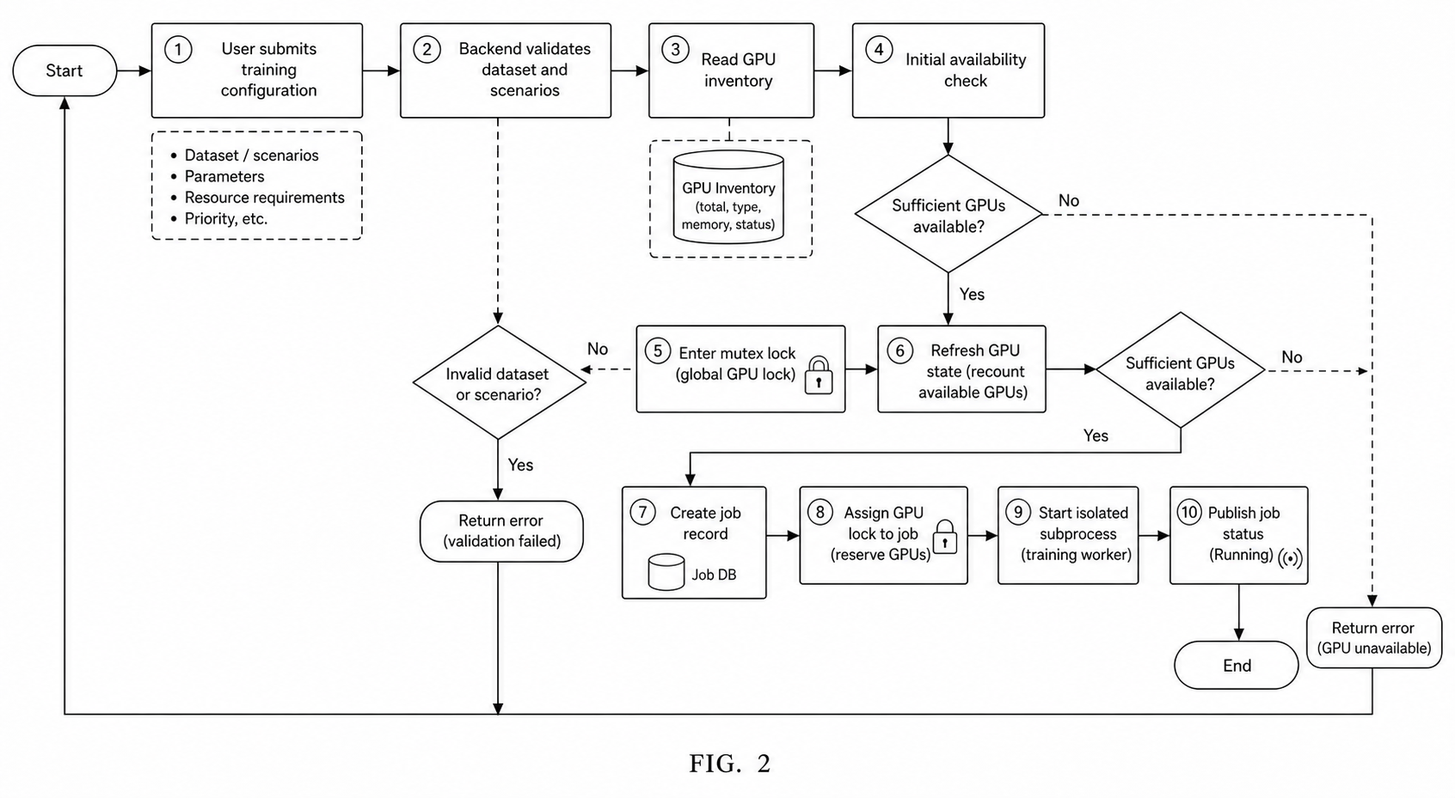
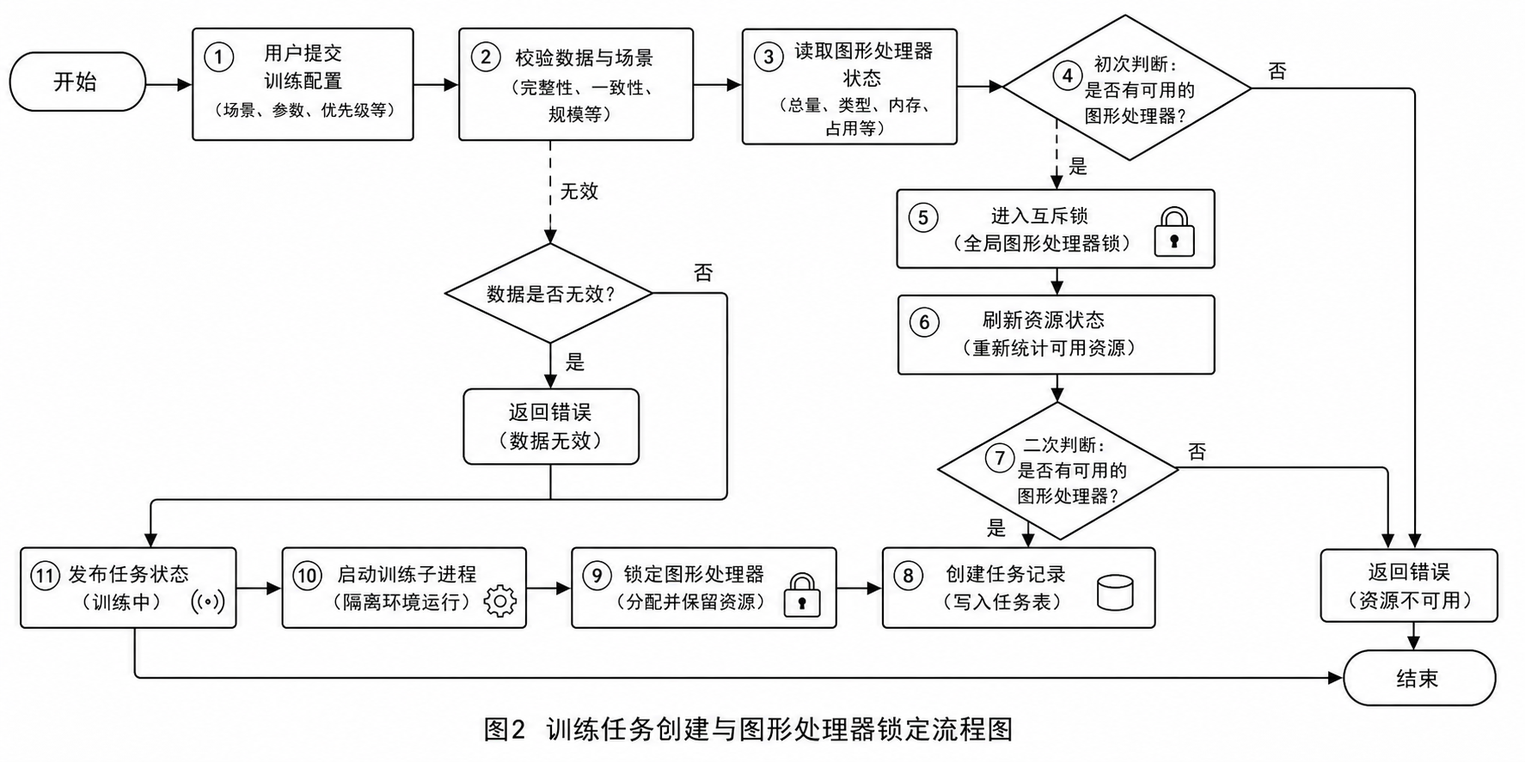
docs: localize patent drafts and figures

diff --git a/docs/patents/AUTO_TRAINING_OUTLINE.md b/docs/patents/AUTO_TRAINING_OUTLINE.md
@@ -10,128 +10,128 @@
 
 可选名称：
 
-- 一种面向 Token Router 的数据感知型自动训练平台及方法。
-- 一种结合 GPU 锁定、缓存构建和断点恢复的科学语言路由模型训练系统。
+- 一种面向令牌路由器的数据感知型自动训练平台及方法。
+- 一种结合图形处理器锁定、缓存构建和断点恢复的科学语言路由模型训练系统。
 
 ## 2. 技术领域
 
-本发明涉及机器学习训练平台、科学仿真数据处理、GPU 资源调度、模型训练过程管理、检查点管理和前后端协同监控，尤其涉及针对科学仿真语言路由器的单卡自动训练与可恢复管理方法及系统。
+本发明涉及机器学习训练平台、科学仿真数据处理、图形处理器资源调度、模型训练过程管理、检查点管理和前后端协同监控，尤其涉及针对科学仿真语言路由器的单卡自动训练与可恢复管理方法及系统。
 
 ## 3. 背景问题
 
-Token Router 训练依赖由科学语言样本构建出的路由数据，同时还依赖嵌入模型、tokenizer、场景选择、训练/测试切分、GPU 状态和检查点文件。传统手工训练方式通常存在以下问题：
+令牌路由器训练依赖由科学语言样本构建出的路由数据，同时还依赖嵌入模型、分词器、场景选择、训练/测试切分、图形处理器状态和检查点文件。传统手工训练方式通常存在以下问题：
 
 - 训练数据、场景选择、嵌入模型和缓存目录不一致时容易产生不可复现实验。
-- 多个训练任务可能误用同一 GPU，导致显存冲突或训练中断。
+- 多个训练任务可能误用同一图形处理器，导致显存冲突或训练中断。
 - 长时间训练中断后，平台难以判断任务是运行、停止、完成、异常终止还是等待保存。
 - 检查点数量增长快，占用磁盘空间，且恢复训练时缺少兼容性校验。
-- 前端日志、曲线、GPU 状态和任务状态若由不同来源刷新，容易出现状态漂移。
+- 前端日志、曲线、图形处理器状态和任务状态若由不同来源刷新，容易出现状态漂移。
 
 ## 4. 核心技术方案
 
-该方案将 Token Router 训练封装为一个数据感知、资源感知和状态可恢复的自动训练闭环：
+该方案将令牌路由器训练封装为一个数据感知、资源感知和状态可恢复的自动训练闭环：
 
-1. 训练数据发现：从路由数据 manifest、便携式 Parquet 分区或兼容 JSONL 文件中聚合可训练仿真器、场景、样本数和文件大小。
-2. 训练参数配置：前端选择仿真器、子场景、GPU、批大小、测试比例、评估间隔、学习率、权重衰减、保留权重数量和恢复训练来源。
-3. GPU 可用性判定：后端读取 `nvidia-smi` 的显存和利用率，并结合平台内活跃任务对 GPU 进行逻辑锁定。
-4. 预处理缓存构建：根据仿真器、场景集合、测试比例、输入表示、嵌入模型和 tokenizer 生成确定性缓存名，构建或复用训练缓存。
-5. 训练进程启动：后端创建独立训练子进程，设置 `CUDA_VISIBLE_DEVICES`、停止令牌、运行目录、日志路径和训练命令。
-6. 过程监控：平台从进程状态、训练日志、指标 JSONL、测试指标、检查点目录和停止状态文件综合推断任务状态。
-7. 权重管理：训练过程中按 epoch 保存检查点，按用户配置保留最近 N 个 epoch，同时维护 latest/final 权重和兼容性元数据。
-8. 安全停止与恢复：停止请求写入带 token 的控制文件并发送信号，训练脚本在安全点保存检查点；恢复训练前校验 checkpoint 与当前训练配置兼容。
+1. 训练数据发现：从路由数据清单文件、便携式列式分区文件或兼容行式文本文件中聚合可训练仿真器、场景、样本数和文件大小。
+2. 训练参数配置：前端选择仿真器、子场景、图形处理器、批大小、测试比例、评估间隔、学习率、权重衰减、保留权重数量和恢复训练来源。
+3. 图形处理器可用性判定：后端读取显卡状态查询命令输出的显存和利用率，并结合平台内活跃任务对图形处理器进行逻辑锁定。
+4. 预处理缓存构建：根据仿真器、场景集合、测试比例、输入表示、嵌入模型和分词器生成确定性缓存名，构建或复用训练缓存。
+5. 训练进程启动：后端创建独立训练子进程，设置图形处理器可见性环境变量、停止令牌、运行目录、日志路径和训练命令。
+6. 过程监控：平台从进程状态、训练日志、行式指标文件、测试指标、检查点目录和停止状态文件综合推断任务状态。
+7. 权重管理：训练过程中按训练轮次保存检查点，按用户配置保留最近若干个训练轮次，同时维护 最新权重、最终权重以及兼容性元数据。
+8. 安全停止与恢复：停止请求写入带令牌的控制文件并发送信号，训练脚本在安全点保存检查点；恢复训练前校验检查点与当前训练配置兼容。
 
 ## 5. 主要模块
 
 ### 5.1 数据集聚合模块
 
-- 扫描 Token Router 数据目录、manifest 和便携式分区。
+- 扫描令牌路由器数据目录、清单文件和便携式列式分区文件。
 - 汇总仿真器、场景、样本数、文件大小、输入表示和嵌入元数据。
 - 向前端提供可选择的数据集列表，并拒绝不存在或不完整的场景组合。
 
-### 5.2 GPU 资源判定与锁定模块
+### 5.2 图形处理器资源判定与锁定模块
 
-- 读取 GPU 型号、显存占用、利用率和进程占用情况。
-- 基于显存阈值、利用率阈值和平台活跃任务判断 GPU 是否可用。
-- 训练任务创建时在锁内二次校验 GPU 状态，避免并发提交抢占同一 GPU。
+- 读取图形处理器型号、显存占用、利用率和进程占用情况。
+- 基于显存阈值、利用率阈值和平台活跃任务判断图形处理器是否可用。
+- 训练任务创建时在锁内二次校验图形处理器状态，避免并发提交抢占同一图形处理器。
 
 ### 5.3 训练缓存与输入表示模块
 
-- 解析路由数据中的聊天模板、嵌入模型、tokenizer 和输入表示。
-- 检查本地 embedding backbone 是否可解析。
-- 根据数据选择和模型元数据生成确定性 prepared cache 名称。
-- 对路由样本进行切分、嵌入或 token 缓存，并保存训练/测试摘要。
+- 解析路由数据中的聊天模板、嵌入模型、分词器和输入表示。
+- 检查本地 嵌入骨干模型 是否可解析。
+- 根据数据选择和模型元数据生成确定性预处理缓存名称。
+- 对路由样本进行切分、嵌入或词元缓存，并保存训练/测试摘要。
 
 ### 5.4 训练执行模块
 
-- 以独立进程运行 Token Router 训练脚本。
-- 设置随机种子、设备、AMP、DataLoader、长度分桶采样和评估间隔。
-- 输出训练日志、训练指标、测试指标、分场景指标和 checkpoint 文件。
+- 以独立进程运行令牌路由器训练脚本。
+- 设置随机种子、设备、自动混合精度、数据加载器、长度分桶采样和评估间隔。
+- 输出训练日志、训练指标、测试指标、分场景指标和检查点文件。
 
 ### 5.5 状态恢复与监控模块
 
 - 从持久化任务表恢复历史任务。
-- 结合 PID 是否存活、日志尾部、训练指标文件、停止状态文件和最终权重判断任务状态。
+- 结合 进程标识 是否存活、日志尾部、训练指标文件、停止状态文件和最终权重判断任务状态。
 - 为前端提供任务列表、任务详情、训练曲线、日志和最近检查点。
 
 ### 5.6 检查点与恢复训练模块
 
-- 每个 epoch 保存 `router_epoch_*.pt`，并根据 `keep_last_epochs` 删除更早 epoch 权重。
-- 维护 `router_latest.pt`、`router_final.pt` 和检查点元数据。
-- 删除检查点前确认任务不在运行，并限制删除路径位于训练 run 目录内。
-- 恢复训练前比较仿真器、场景、输入表示、嵌入模型、tokenizer 和 prepared summary 等兼容性信息。
+- 每个训练轮次保存训练轮次权重文件，并根据保留最近训练轮次数量参数删除更早训练轮次权重。
+- 维护 最新权重文件和最终权重文件 和检查点元数据。
+- 删除检查点前确认任务不在运行，并限制删除路径位于训练 运行目录内。
+- 恢复训练前比较仿真器、场景、输入表示、嵌入模型、分词器和 预处理摘要 等兼容性信息。
 
 ### 5.7 前端训练工作台模块
 
-- 提供训练总览、GPU 状态、数据集选择、新建训练、任务管理、详情页、曲线、日志和训练文件管理。
-- 通过统一 API 周期性刷新数据集、GPU、任务、日志、曲线和检查点。
+- 提供训练总览、图形处理器状态、数据集选择、新建训练、任务管理、详情页、曲线、日志和训练文件管理。
+- 通过统一接口周期性刷新数据集、图形处理器、任务、日志、曲线和检查点。
 - 将任务状态、停止提示、权重保留策略和文件删除保护同步到界面。
 
 ## 6. 关键创新点
 
-- 将路由数据 manifest、嵌入 backbone、训练缓存、GPU 锁和训练子进程绑定为一个可校验的启动契约。
-- 使用确定性缓存命名机制，使相同数据选择和输入表示复用同一 prepared dataset，减少重复预处理。
-- 通过操作系统进程、平台持久化状态、训练日志、指标文件和 checkpoint 文件多源融合恢复任务状态。
+- 将路由数据清单文件、嵌入骨干模型、训练缓存、图形处理器锁和训练子进程绑定为一个可校验的启动契约。
+- 使用确定性缓存命名机制，使相同数据选择和输入表示复用同一预处理数据集，减少重复预处理。
+- 通过操作系统进程、平台持久化状态、训练日志、指标文件和检查点文件多源融合恢复任务状态。
 - 使用带令牌的停止控制文件实现平台授权停止，并在训练安全点保存权重，降低强制中断导致的模型损坏风险。
-- 将 checkpoint 保留数量作为训练配置，由平台自动清理旧权重，兼顾恢复能力和磁盘占用。
+- 将检查点保留数量作为训练配置，由平台自动清理旧权重，兼顾恢复能力和磁盘占用。
 - 在恢复训练前执行配置兼容性检查，避免使用不匹配数据或嵌入模型继续训练。
 
 ## 7. 技术效果
 
 - 降低训练启动和恢复的人为配置错误，提高实验可复现性。
-- 避免多个任务误占同一 GPU，提高远程服务器资源利用的可控性。
+- 避免多个任务误占同一图形处理器，提高远程服务器资源利用的可控性。
 - 在服务重启、浏览器关闭或任务异常结束后仍能查看任务历史、日志和最终状态。
-- 自动控制 checkpoint 数量，减少磁盘压力。
+- 自动控制检查点数量，减少磁盘压力。
 - 让前端展示的训练状态、进度、日志、曲线和权重文件与后端运行状态保持一致。
 
 ## 8. 权利要求布局建议
 
-1. 独立方法权利要求：覆盖数据集发现、GPU 判定、缓存构建、训练启动、状态监控、检查点管理和安全停止恢复的完整训练流程。
-2. 独立系统权利要求：覆盖数据集模块、GPU 模块、缓存模块、训练执行模块、状态恢复模块、检查点模块和前端监控模块。
+1. 独立方法权利要求：覆盖数据集发现、图形处理器判定、缓存构建、训练启动、状态监控、检查点管理和安全停止恢复的完整训练流程。
+2. 独立系统权利要求：覆盖数据集模块、图形处理器模块、缓存模块、训练执行模块、状态恢复模块、检查点模块和前端监控模块。
 3. 设备权利要求：覆盖执行上述训练调度方法的服务器或计算设备。
 4. 存储介质权利要求：覆盖保存程序指令后执行上述方法的非暂态计算机可读存储介质。
-5. 从属权利要求：分别保护 GPU 二次校验、prepared cache 哈希、checkpoint 兼容性校验、状态多源推断、令牌化停止文件和最近 N 个 epoch 权重保留策略。
+5. 从属权利要求：分别保护图形处理器二次校验、预处理缓存散列、检查点兼容性校验、状态多源推断、令牌化停止文件和最近若干个训练轮次权重保留策略。
 
 ## 9. 附图建议
 
 - 图 1：自动训练平台总体架构图。
 
   ![图 1 自动训练平台总体架构图](figures/auto_training_fig1.png)
-- 图 2：训练任务创建与 GPU 锁定流程图。
+- 图 2：训练任务创建与图形处理器锁定流程图。
 
-  ![图 2 训练任务创建与 GPU 锁定流程图](figures/auto_training_fig2.png)
-- 图 3：路由数据到 prepared cache 的构建流程图。
+  ![图 2 训练任务创建与图形处理器锁定流程图](figures/auto_training_fig2.png)
+- 图 3：路由数据到预处理缓存的构建流程图。
 
-  ![图 3 路由数据到 prepared cache 的构建流程图](figures/auto_training_fig3.png)
+  ![图 3 路由数据到预处理缓存的构建流程图](figures/auto_training_fig3.png)
 - 图 4：训练状态多源推断流程图。
 
   ![图 4 训练状态多源推断流程图](figures/auto_training_fig4.png)
-- 图 5：checkpoint 保存、清理、删除和恢复训练关系图。
+- 图 5：检查点保存、清理、删除和恢复训练关系图。
 
-  ![图 5 checkpoint 保存、清理、删除和恢复训练关系图](figures/auto_training_fig5.png)
+  ![图 5 检查点保存、清理、删除和恢复训练关系图](figures/auto_training_fig5.png)
 
 ## 10. 项目实现映射
 
-- 训练 API：`piern/training/api/routers/training.py`
+- 训练接口：`piern/training/api/routers/training.py`
 - 训练任务管理：`piern/training/services/training_manager.py`
 - 运行时状态：`piern/training/services/training_runtime.py`、`piern/training/services/process_control.py`
 - 权重管理：`piern/training/services/checkpoint_store.py`

diff --git a/docs/patents/DATA_SYNTHESIS_PATENT_DRAFT.md b/docs/patents/DATA_SYNTHESIS_PATENT_DRAFT.md
@@ -44,7 +44,7 @@ S5，根据所述语言样本构造路由训练数据，所述路由训练数据
 
 ### 权利要求 6
 
-根据权利要求 1 所述的方法，其特征在于，步骤 S4 包括：根据随机种子从语言模板记录集合和科学仿真数据样本集合中选择组合关系，按场景并行填充语言样本，并以批量方式写入便携式分区文件或兼容行式文本文件。
+根据权利要求 1 所述的方法，其特征在于，步骤 S4 包括：根据随机种子从语言模板记录集合和科学仿真数据样本集合中选择组合关系，按场景并行填充语言样本，并以批量方式写入便携式列式分区文件或兼容行式文本文件。
 
 ### 权利要求 7
 
@@ -90,7 +90,7 @@ S5，根据所述语言样本构造路由训练数据，所述路由训练数据
 
 ### 背景技术
 
-地下水模拟、电磁反演、电力潮流、暂态仿真、能源系统模拟等科学计算任务通常会产生大量结构化仿真数据。该类数据常以 HDF5、数组或表格形式保存，通常包括参数向量、多通道时序输出、场景名称、采样配置和物理含义说明。随着大语言模型和专家模型协同推理的发展，需要将上述科学仿真数据转换为自然语言问答样本、解释样本或路由训练样本，以训练能够识别任务场景和调用专家模型的路由模型。
+地下水模拟、电磁反演、电力潮流、暂态仿真、能源系统模拟等科学计算任务通常会产生大量结构化仿真数据。该类数据常以层次化科学数据文件、数组或表格形式保存，通常包括参数向量、多通道时序输出、场景名称、采样配置和物理含义说明。随着大语言模型和专家模型协同推理的发展，需要将上述科学仿真数据转换为自然语言问答样本、解释样本或路由训练样本，以训练能够识别任务场景和调用专家模型的路由模型。
 
 现有做法通常包括两类：第一类是人工编写模板后手动填充数值；第二类是直接调用大模型逐条生成自然语言样本。前者难以覆盖多场景、多语言和多表述风格，维护成本高；后者虽然能够生成丰富文本，但在百万级样本规模下会带来高昂的大模型调用成本，并且大模型直接生成数值时容易产生单位不一致、参数错配、通道错配、物理意义不一致或虚构数值等问题。
 
@@ -118,7 +118,7 @@ S5，根据所述语言样本构造路由训练数据，所述路由训练数据
 
 在一种优选实施方式中，平台以阶段化流水线组织处理过程，包括原始科学数据接入阶段、语言模板生成阶段、本地样本填充阶段和路由数据构建阶段。每个阶段由后端任务管理模块维护任务状态、进度事件、日志事件、处理速率和任务互斥关系，前端通过统一接口展示任务进度和文件状态。
 
-在一种优选实施方式中，本地样本填充阶段支持按场景并行执行，支持通过随机种子控制模板和数值样本的组合顺序，支持批量写入便携式 Parquet 分区，也支持写入兼容 JSONL 文件。平台还可生成源数据签名和 manifest，用于判断派生数据是否与原始科学数据及语言模板一致。
+在一种优选实施方式中，本地样本填充阶段支持按场景并行执行，支持通过随机种子控制模板和数值样本的组合顺序，支持批量写入便携式列式分区文件，也支持写入兼容行式文本文件。平台还可生成源数据签名和清单文件，用于判断派生数据是否与原始科学数据及语言模板一致。
 
 在一种优选实施方式中，当样本填充任务、路由数据构建任务或训练任务正在使用某一文件或目录时，平台将所述文件或目录标记为受保护状态，阻止用户在文件管理界面中删除或覆盖该文件或目录，从而避免长任务运行期间的数据损坏。
 
@@ -131,7 +131,7 @@ S5，根据所述语言样本构造路由训练数据，所述路由训练数据
 3. 通过统一数据契约和场景知识对象支持多种仿真器和多种科学场景，降低新增场景接入成本。
 4. 通过参数槽位、输出槽位和变换描述，使语言表达和原始数值之间形成可追踪映射。
 5. 自动构造路由训练正负样本和相关元数据，使合成结果可直接服务于路由模型训练。
-6. 通过源数据签名、便携式分区和派生数据策略，提高远程服务器迁移和数据重建能力。
+6. 通过源数据签名、便携式列式分区文件和派生数据策略，提高远程服务器迁移和数据重建能力。
 
 ### 附图说明
 
@@ -147,9 +147,9 @@ S5，根据所述语言样本构造路由训练数据，所述路由训练数据
 
 ![图 3 无数值语言模板与本地数值填充之间的映射关系图](figures/data_synthesis_fig3.png)
 
-图 4 为本发明实施例提供的路由训练正负样本构建示意图。
+图 4 为本发明实施例提供的路由正负样本构建示意图。
 
-![图 4 路由训练正负样本构建示意图](figures/data_synthesis_fig4.png)
+![图 4 路由正负样本构建示意图](figures/data_synthesis_fig4.png)
 
 图 5 为本发明实施例提供的任务进度、文件保护和派生数据存储关系图。
 
@@ -161,9 +161,9 @@ S5，根据所述语言样本构造路由训练数据，所述路由训练数据
 
 #### 实施例一：科学仿真数据接入与校验
 
-平台接收一个仿真器对应的多个场景数据文件。每个场景数据文件包括 `timeseries`、`params`、`param_names` 和场景属性。其中，`timeseries` 表示多样本多通道时序数组，形状可以为 `[N,C,T]`，`params` 表示参数数组，形状可以为 `[N,P]`，`param_names` 表示长度为 `P` 的参数名称集合。
+平台接收一个仿真器对应的多个场景数据文件。每个场景数据文件包括时序数组、参数数组、参数名称列表和场景属性。其中，时序数组表示多样本多通道时序输出，参数数组表示多样本参数向量集合，参数名称列表表示参数数组中各列对应的物理参数名称。
 
-平台在接入数据时执行如下校验：校验 `timeseries` 是否为三维数组；校验 `params` 是否为二维数组；校验 `timeseries` 与 `params` 的第一维样本数量是否一致；校验 `param_names` 的长度是否与 `params` 的第二维一致；校验场景名称、通道数量、时间步数量和属性字段是否存在；校验数组中是否存在 NaN 或 Inf。若校验失败，平台拒绝该场景进入后续阶段，并返回明确错误信息。
+平台在接入数据时执行如下校验：校验时序数组是否为三维数组；校验参数数组是否为二维数组；校验时序数组与参数数组的样本数量是否一致；校验参数名称列表的长度是否与参数数组的参数维度一致；校验场景名称、通道数量、时间步数量和属性字段是否存在；校验数组中是否存在非法数值。若校验失败，平台拒绝该场景进入后续阶段，并返回明确错误信息。
 
 通过该方式，不同来源的科学仿真数据在进入语言生成流程前被转换为统一的数据契约，从而为跨仿真器处理提供基础。
 
@@ -177,17 +177,17 @@ S5，根据所述语言样本构造路由训练数据，所述路由训练数据
 
 语言模板生成模块根据场景知识对象生成模板记录。模板记录中可以包括用户问题模板、助手响应模板、参数槽位、输出槽位、时间选择信息、通道选择信息和参数变换描述。
 
-例如，某一模板可以表示：“在给定 {value_0} 和 {value_1} 的条件下，观测井在第 {time_0} 个时间步的水头为 {output_0}。”其中，`{value_0}` 和 `{value_1}` 分别指向参数数组中的两个参数，`{output_0}` 指向时序数组中的某一通道和某一时间步。模板生成阶段不填入具体数值，因此同一模板可以复用于多个仿真样本。
+例如，某一模板可以表示：“在给定第一参数值和第二参数值的条件下，观测井在指定时间步的水头为指定观测值。”其中，第一参数值和第二参数值分别指向参数数组中的两个参数，指定观测值指向时序数组中的某一通道和某一时间步。模板生成阶段不填入具体数值，因此同一模板可以复用于多个仿真样本。
 
 若模板包含参数变换，则模板记录同时保存变换类型和变换参数。例如，当文本需要描述某一参数的百分比形式或缩放形式时，模板记录保存缩放系数，样本填充模块在本地执行相同变换。
 
 #### 实施例四：本地确定性样本填充
 
-样本填充模块读取模板记录和科学仿真数据。对于每一条待生成样本，模块选择一个模板记录和一个仿真样本编号。随后，模块根据模板记录中的参数槽位从 `params` 中读取参数值，并根据输出槽位从 `timeseries` 中读取观测值。
+样本填充模块读取模板记录和科学仿真数据。对于每一条待生成样本，模块选择一个模板记录和一个仿真样本编号。随后，模块根据模板记录中的参数槽位从参数数组中读取参数值，并根据输出槽位从时序数组中读取观测值。
 
 在填充过程中，模块检查时间索引是否小于时间步数量，检查通道索引是否小于通道数量，检查读取到的数值是否为有限值。若检查通过，模块将数值格式化后填入语言文本，并保存结构化字段，包括原始参数值、变换后参数值、观测值、场景名称、模板标识和源样本标识。
 
-在大规模生成时，平台可以按场景并行运行多个填充任务，每个任务分批写入输出文件。输出文件可以采用 Parquet 分区格式，以便后续快速扫描和迁移；也可以采用 JSONL 格式，以兼容已有文本处理工具。
+在大规模生成时，平台可以按场景并行运行多个填充任务，每个任务分批写入输出文件。输出文件可以采用列式分区文件格式，以便后续快速扫描和迁移；也可以采用行式文本文件格式，以兼容已有文本处理工具。
 
 #### 实施例五：路由训练数据构建
 

diff --git a/docs/patents/DATA_SYNTHESIS_OUTLINE.md b/docs/patents/DATA_SYNTHESIS_OUTLINE.md
@@ -15,11 +15,11 @@
 
 ## 2. 技术领域
 
-本发明涉及科学计算数据处理、自然语言样本构建、机器学习训练数据生成、仿真数据管理和人机交互式数据工程平台，尤其涉及将多源科学仿真张量数据转换为可用于 Token Router 训练的语言样本和路由数据的方法及系统。
+本发明涉及科学计算数据处理、自然语言样本构建、机器学习训练数据生成、仿真数据管理和人机交互式数据工程平台，尤其涉及将多源科学仿真张量数据转换为可用于令牌路由器训练的语言样本和路由数据的方法及系统。
 
 ## 3. 背景问题
 
-现有科学仿真数据通常以 HDF5、数组或表格形式保存，包含多通道时序、参数向量和场景元数据。若直接使用大模型逐条生成语言样本，通常存在以下问题：
+现有科学仿真数据通常以层次化科学数据文件、数组或表格形式保存，包含多通道时序、参数向量和场景元数据。若直接使用大模型逐条生成语言样本，通常存在以下问题：
 
 - 逐样本调用大模型成本高、速度慢，难以扩展到百万级样本。
 - 大模型直接写入数值容易产生物理不一致、单位不一致或参数映射错误。
@@ -31,23 +31,23 @@
 
 该方案将数据合成平台拆分为四个相互约束的阶段，并通过统一任务系统、文件管理和进度接口串联：
 
-1. 原始科学数据接入阶段：运行物理仿真或上传 HDF5，按统一契约校验 `timeseries`、`params`、`param_names`、属性字段、形状和有限值。
+1. 原始科学数据接入阶段：运行物理仿真或上传层次化科学数据文件，按统一契约校验 时序数组、参数数组和参数名称列表、属性字段、形状和有限值。
 2. 语言模板生成阶段：融合仿真器注册表、场景元数据、参数说明、输出通道说明和观测配置，调用大模型生成不含真实数值的模板记录。
-3. 本地样本填充阶段：根据模板中的占位符、参数槽位、输出槽位、时间索引、通道索引和变换描述，从 HDF5 数值数组中确定性填充语言样本。
-4. 路由数据构建阶段：把填充后的语言样本转换为 Token Router 所需的正负训练样本，并保存场景、语言、嵌入模型和源数据签名等元数据。
+3. 本地样本填充阶段：根据模板中的占位符、参数槽位、输出槽位、时间索引、通道索引和变换描述，从层次化科学数据文件的数值数组中确定性填充语言样本。
+4. 路由数据构建阶段：把填充后的语言样本转换为令牌路由器所需的正负训练样本，并保存场景、语言、嵌入模型和源数据签名等元数据。
 
 ## 5. 主要模块
 
 ### 5.1 数据契约与校验模块
 
-- 统一检查 HDF5 中 `timeseries [N,C,T]`、`params [N,P]`、`param_names [P]` 的一致性。
-- 校验样本数、参数数、通道数、时间步、NaN、Inf、属性字段和场景名称。
+- 统一检查 层次化科学数据文件中形状为样本数、通道数、时间步数的时序数组，参数数组和参数名称列表的一致性。
+- 校验样本数、参数数、通道数、时间步、非法数值、属性字段和场景名称。
 - 支持物理仿真生成数据和用户上传数据进入同一流程。
 
 ### 5.2 场景注册与领域知识融合模块
 
 - 读取仿真器级注册表、场景级配置和内置领域注册表。
-- 为每个场景组合 `domain_context`、`output_description`、`param_info`、`output_info` 和 `observation_config`。
+- 为每个场景组合 领域背景、输出描述、参数信息、输出信息和观测配置。
 - 将不同仿真域的参数、输出通道和观测方式映射为统一模板输入。
 
 ### 5.3 无数值语言模板模块
@@ -58,17 +58,17 @@
 
 ### 5.4 本地数值填充模块
 
-- 根据模板占位符从 `params` 和 `timeseries` 中读取真实数值。
+- 根据模板占位符从参数数组和时序数组中读取真实数值。
 - 对参数值执行乘、除、加、减等变换，并同步记录原始参数和变换后参数。
 - 按模板指定的时间点、通道和输出名称提取观测值，跳过非法索引和非有限值。
-- 支持按场景并行填充、随机种子控制、批量写入和 Parquet/JSONL 输出。
+- 支持按场景并行填充、随机种子控制、批量写入和列式分区文件或行式文本文件 输出。
 
 ### 5.5 路由样本构建模块
 
 - 对每条语言样本应用聊天模板，构造完整上下文。
-- 从 assistant 起始标记处构造正样本，表示当前上下文需要专家模型接管。
+- 从助手起始标记处构造正样本，表示当前上下文需要专家模型接管。
 - 从前缀中随机截断构造负样本，表示上下文尚不需要专家模型接管。
-- 记录场景标签、语言标签、源样本 ID、聊天模板、嵌入模型、tokenizer 和数据签名。
+- 记录场景标签、语言标签、源样本标识、聊天模板、嵌入模型、分词器和数据签名。
 
 ### 5.6 任务进度与文件保护模块
 
@@ -80,14 +80,14 @@
 
 - 将大模型生成从“逐样本生成”改为“生成可复用的无数值模板”，显著降低调用成本并提高可扩展性。
 - 通过模板槽位、时间索引、通道索引和参数变换描述，将语言表达与真实科学数值严格绑定，减少虚假数值和物理不一致。
-- 用统一数据契约和领域注册表屏蔽不同仿真器之间的输入输出差异，实现跨 MODFLOW、SimPEG、电力潮流、暂态仿真和 GCAM 等场景的统一合成。
-- 在同一流水线中自动构建 Token Router 正负样本，使语言样本合成结果可直接服务下游路由训练。
-- 通过源数据签名、manifest、便携式 Parquet 分区和派生数据策略，提高远程迁移和重建能力。
+- 用统一数据契约和领域注册表屏蔽不同仿真器之间的输入输出差异，实现跨地下水模拟、电磁反演、电力潮流、暂态仿真和能源系统模拟等场景的统一合成。
+- 在同一流水线中自动构建令牌路由器正负样本，使语言样本合成结果可直接服务下游路由训练。
+- 通过源数据签名、清单文件、便携式列式分区文件和派生数据策略，提高远程迁移和重建能力。
 
 ## 7. 技术效果
 
 - 将百万级语言样本生成的主要成本从大模型调用转移为本地数组填充和批量写入，提高吞吐量。
-- 保证文本中的参数、观测值、时间点、通道和场景信息与原始 HDF5 数据一致。
+- 保证文本中的参数、观测值、时间点、通道和场景信息与原始层次化科学数据文件一致。
 - 降低多仿真域接入成本，新场景可通过注册表和模板机制加入。
 - 自动形成可训练的路由数据，减少人工构造正负样本的错误。
 - 便于服务迁移，只需保存原始科学数据和语言模板即可重建派生样本和路由数据。
@@ -98,7 +98,7 @@
 2. 独立系统权利要求：覆盖数据接入模块、注册表模块、模板模块、填充模块、路由构建模块、任务管理模块和文件管理模块。
 3. 设备权利要求：覆盖处理器执行上述方法的计算设备或服务器。
 4. 存储介质权利要求：覆盖保存程序指令后执行上述方法的非暂态计算机可读存储介质。
-5. 从属权利要求：分别保护占位符槽位、参数变换、时间/通道选择、正负路由样本构造、进度事件、源数据签名和便携式分区存储。
+5. 从属权利要求：分别保护占位符槽位、参数变换、时间/通道选择、正负路由样本构造、进度事件、源数据签名和便携式列式分区文件存储。
 
 ## 9. 附图建议
 
@@ -120,7 +120,7 @@
 
 ## 10. 项目实现映射
 
-- 合成 API：`piern/synth/api/routers/generation.py`、`piern/synth/api/routers/simulation.py`、`piern/synth/api/routers/router_data.py`
+- 合成接口：`piern/synth/api/routers/generation.py`、`piern/synth/api/routers/simulation.py`、`piern/synth/api/routers/router_data.py`
 - 任务系统：`piern/synth/services/job_manager.py`
 - 模板与填充：`piern/synth/text2comp/template_store.py`、`piern/synth/text2comp/generator.py`、`scripts/text2comp/fill_samples.py`
 - 路由数据构建：`scripts/router/build_router_data.py`

diff --git a/docs/patents/README.md b/docs/patents/README.md
@@ -8,7 +8,7 @@
 - `DATA_SYNTHESIS_PATENT_DRAFT.md`：数据合成平台正式专利文本草案，包含摘要、权利要求书、说明书和附图说明。
 - `AUTO_TRAINING_OUTLINE.md`：自动训练平台专利技术大纲。
 - `AUTO_TRAINING_PATENT_DRAFT.md`：自动训练平台正式专利文本草案，包含摘要、权利要求书、说明书和附图说明。
-- `figures/`：两件专利对应的 GPT 生图附图 PNG，共 10 张。
+- `figures/`：两件专利对应的大模型生成中文附图图片文件，共 10 张。
 
 ## 后续建议
 
